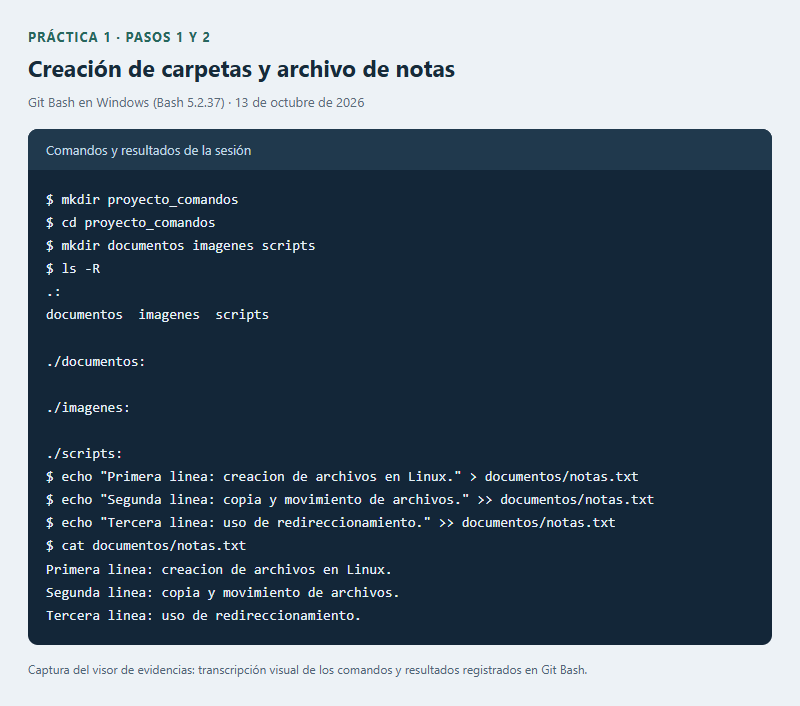
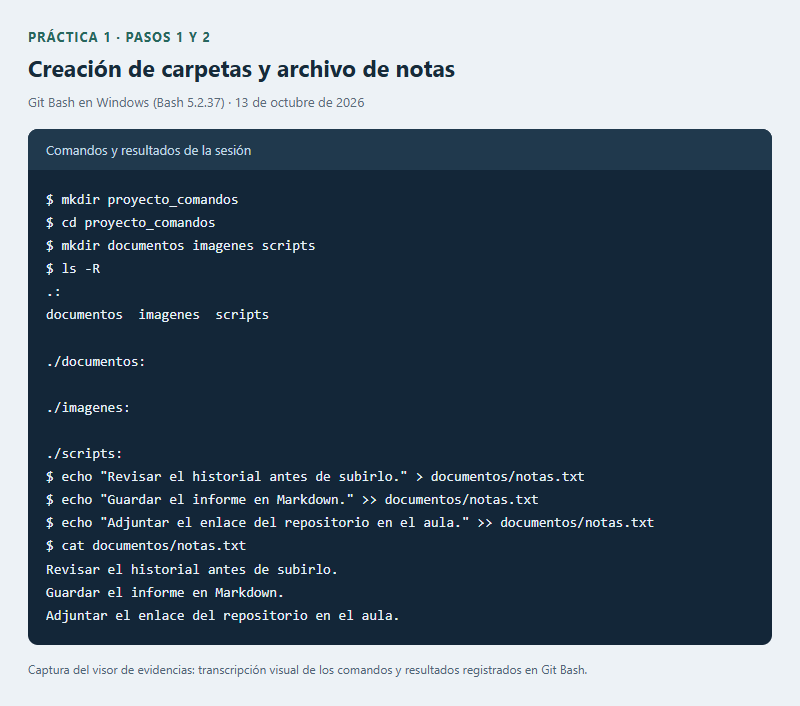
Usar notas de la entrega y simplificar las explicaciones

Changed region(s): [[0.125, 0.6544, 0.8125, 0.7479], [0.0625, 0.779, 0.5, 0.9037]]

diff --git a/informe.md b/informe.md
@@ -7,27 +7,25 @@
 
 ## 1. Título
 
-Creación, copia, movimiento, redirección y eliminación de archivos mediante comandos de Linux.
+Creación y manejo de archivos con comandos de Linux.
 
 ## 2. Tiempo de duración
 
-La ejecución de los pasos de creación y manipulación, junto con las primeras comprobaciones, registró **73 segundos (aproximadamente 1,2 minutos)** en la sesión de Git Bash. Este tiempo corresponde a la ejecución de los comandos; no incluye la elaboración del informe, la publicación en GitHub ni la grabación del audio.
+La ejecución final de los comandos y sus comprobaciones tomó **34 segundos**. Este registro no incluye el tiempo dedicado al informe ni a la grabación del audio.
 
 ## 3. Fundamentos
 
-Los comandos de esta práctica se plantean para una terminal interactiva de Git Bash. Una terminal permite escribir instrucciones para trabajar con archivos y directorios. La organización de las carpetas ayuda a separar documentos, imágenes y scripts, mientras que las rutas indican dónde actúa cada instrucción. La shell interpreta esas instrucciones, sus argumentos y los operadores que relacionan su entrada y salida. [Manual de Bash](https://www.gnu.org/software/bash/manual/bash.html).
+La práctica organiza el trabajo en una carpeta llamada `proyecto_comandos`. Dentro se crean `documentos`, `imagenes` y `scripts`. El comando `mkdir` permite crear estas carpetas y `cd proyecto_comandos` sirve para entrar en la principal. Desde allí, la ruta `documentos/notas.txt` indica que el archivo está dentro de `documentos`. Tener clara la ubicación ayuda a copiar o borrar el archivo correcto. [Bash](https://www.gnu.org/software/bash/manual/bash.html) y [GNU: mkdir](https://www.gnu.org/software/coreutils/manual/html_node/mkdir-invocation.html).
 
-El comando `pwd` muestra la ubicación actual y `cd` cambia el directorio de trabajo. Esto permite interpretar correctamente las rutas relativas. `mkdir` crea carpetas; por ejemplo, `mkdir proyecto_comandos` crea el directorio principal. Después de entrar con `cd proyecto_comandos`, la instrucción `mkdir documentos imagenes scripts` crea las tres subcarpetas dentro de él. [Manual de Bash](https://www.gnu.org/software/bash/manual/bash.html) y [GNU: mkdir](https://www.gnu.org/software/coreutils/manual/html_node/mkdir-invocation.html).
+Para escribir las notas se usa `echo`. La primera línea, “Revisar el historial antes de subirlo.”, se guarda con `>`. Las siguientes, “Guardar el informe en Markdown.” y “Adjuntar el enlace del repositorio en el aula.”, se añaden con `>>`. La diferencia es importante: en la configuración habitual, `>` reemplaza el contenido existente, mientras que `>>` conserva lo anterior y escribe al final. Ambos pueden crear el archivo si todavía no existe. [Bash](https://www.gnu.org/software/bash/manual/bash.html).
 
-El comando `echo` escribe texto en la salida estándar. Al agregar `>`, esa salida se dirige a un archivo: se crea si no existe y, normalmente, se reemplaza su contenido si ya existe. En cambio, `>>` añade texto al final. Por eso, para escribir tres líneas en `notas.txt`, se puede utilizar `>` en la primera y `>>` en las siguientes. [Manual de Bash](https://www.gnu.org/software/bash/manual/bash.html).
+Con `cp documentos/notas.txt scripts/backup_notas.txt` se obtiene una copia con otro nombre y se conserva el original. Luego, `mv scripts/backup_notas.txt imagenes/` traslada esa copia. Después del movimiento, el respaldo queda en `imagenes` y ya no está en `scripts`. El archivo `documentos/notas.txt` sigue en su lugar. [GNU Coreutils](https://www.gnu.org/software/coreutils/manual/coreutils.html).
 
-El comando `cp` copia un archivo y conserva el original. Así, `cp documentos/notas.txt scripts/backup_notas.txt` permite obtener una copia con otro nombre. Por su parte, `mv` cambia la ubicación o el nombre de un archivo; después de moverlo correctamente, deja de estar en su ubicación anterior. [Manual de GNU Coreutils](https://www.gnu.org/software/coreutils/manual/coreutils.html).
+El comando `cat documentos/notas.txt > documentos/resumen.txt` escribe las tres notas en `resumen.txt`. Después se añade “Grabar un audio de un minuto para la entrega.” mediante `echo` y `>>`. Así, el archivo debe tener cuatro líneas. Aunque se llame “resumen”, `cat` no reduce ni interpreta el texto; lo envía completo al destino indicado. [GNU: cat](https://www.gnu.org/software/coreutils/manual/html_node/cat-invocation.html).
 
-El comando `cat` envía el contenido de uno o varios archivos a la salida estándar. Con `cat documentos/notas.txt > documentos/resumen.txt`, ese contenido se escribe en otro archivo. El nombre “resumen” no significa que el comando resuma el texto: únicamente reproduce su contenido. [GNU: cat](https://www.gnu.org/software/coreutils/manual/html_node/cat-invocation.html).
+La eliminación se hace en dos pasos. Primero, `rm imagenes/backup_notas.txt` borra el respaldo. Luego, `rmdir imagenes` elimina la carpeta, siempre que esté vacía. El orden importa porque `rmdir` no elimina un directorio que todavía contiene archivos. [GNU Coreutils](https://www.gnu.org/software/coreutils/manual/coreutils.html) y [GNU: rmdir](https://www.gnu.org/s/coreutils/manual/html_node/rmdir-invocation.html).
 
-El comando `rm` elimina archivos, como la copia temporal solicitada. `rmdir` elimina directorios vacíos y devuelve un error si contienen elementos. Esta diferencia permite elegir el comando adecuado para cada parte de la práctica. [Manual de GNU Coreutils](https://www.gnu.org/software/coreutils/manual/coreutils.html) y [GNU: rmdir](https://www.gnu.org/s/coreutils/manual/html_node/rmdir-invocation.html).
-
-Finalmente, `history` muestra el historial disponible en la shell. En `history | tee tarea-s1-pedro_pozo.txt`, la tubería `|` conecta esa salida con la entrada de `tee`, que muestra los datos y los guarda. El historial registra comandos, pero no demuestra por sí solo que se ejecutaron correctamente; para comprobarlo hacen falta resultados y evidencias. [GNU: historial](https://www.gnu.org/s/bash/manual/html_node/Bash-History-Facilities.html) y [GNU: tee](https://www.gnu.org/s/coreutils/manual/html_node/tee-invocation.html).
+Finalmente, `history | tee ../tarea-s1-pedro_pozo.txt` permite revisar y guardar los comandos. La tubería `|` pasa el historial a `tee`, que lo muestra en pantalla y lo escribe en el archivo. `../` sitúa ese archivo un nivel por encima de la carpeta actual. El historial sirve como registro de los comandos, pero sus resultados se comprueban aparte. [GNU: historial](https://www.gnu.org/s/bash/manual/html_node/Bash-History-Facilities.html) y [GNU: tee](https://www.gnu.org/s/coreutils/manual/html_node/tee-invocation.html).
 
 ![Estructura inicial y recorrido de los archivos](evidencias/01-estructura.svg)
 
@@ -41,15 +39,15 @@ Finalmente, `history` muestra el historial disponible en la shell. En `history |
 
 - Abrir una terminal y escribir un comando con sus argumentos.
 - Reconocer la diferencia entre un archivo y un directorio.
-- Comprender que una ruta relativa depende del directorio actual.
-- Identificar el uso de las comillas para escribir texto con espacios.
+- Saber en qué carpeta se está trabajando y cómo escribir una ruta.
+- Usar comillas cuando el texto contiene espacios.
 - Utilizar un navegador y una cuenta de GitHub para entregar el repositorio.
 
 ## 5. Objetivos a alcanzar
 
 1. Crear la estructura `proyecto_comandos` con las carpetas `documentos`, `imagenes` y `scripts`.
 2. Crear un archivo de tres líneas, copiarlo, cambiar el nombre de la copia y moverla a otra carpeta.
-3. Aplicar redirecciones para conservar y ampliar el contenido de un archivo, eliminar elementos y exportar el historial mediante una tubería.
+3. Añadir texto sin borrar lo anterior, eliminar el respaldo y guardar el historial con una tubería.
 
 ## 6. Equipo necesario
 
@@ -60,7 +58,7 @@ Finalmente, `history` muestra el historial disponible en la shell. En `history |
 - Navegador, conexión a Internet y cuenta de GitHub.
 - Micrófono o teléfono para grabar el audio personal solicitado.
 
-Git Bash proporciona Bash y herramientas de estilo Unix en Windows. Fue el entorno empleado; no se utilizó Ubuntu WSL en esta ejecución.
+Para esta práctica se utilizó Git Bash, que permite ejecutar estos comandos en Windows.
 
 ## 7. Material de apoyo
 
@@ -72,9 +70,9 @@ Git Bash proporciona Bash y herramientas de estilo Unix en Windows. Fue el entor
 
 ## 8. Procedimiento
 
-Se empleó una carpeta nueva de trabajo y una sesión interactiva de Git Bash con historial independiente. Los comandos siguientes corresponden a la ejecución registrada. Se mantuvo el nombre **`imagenes` sin tilde** en todas las rutas, tal como aparece en la creación de la estructura del enunciado.
+La práctica se hizo en una carpeta nueva. Se usó `imagenes` sin tilde en todas las instrucciones para mantener el mismo nombre de carpeta.
 
-Las figuras 1 y 2 son diagramas explicativos. Las figuras 3 a 6 muestran una transcripción visual del registro real de ejecución, presentada en un visor. Todas las imágenes tienen 800 píxeles de ancho.
+Las dos primeras figuras explican las operaciones. Las figuras 3 a 6 muestran transcripciones visuales de los comandos y sus resultados. Todas tienen 800 píxeles de ancho.
 
 ### Paso 1. Crear la estructura de carpetas
 
@@ -85,18 +83,18 @@ mkdir documentos imagenes scripts
 ls -R
 ```
 
-Se comprobó la presencia de las tres subcarpetas dentro de `proyecto_comandos`. Desde este punto, los comandos de la práctica se ejecutaron dentro de esa carpeta.
+Con `ls -R` se comprobó que las tres subcarpetas estaban creadas. Los pasos siguientes se hicieron desde `proyecto_comandos`.
 
 ### Paso 2. Crear notas.txt y escribir tres líneas
 
 ```bash
-echo "Primera linea: creacion de archivos en Linux." > documentos/notas.txt
-echo "Segunda linea: copia y movimiento de archivos." >> documentos/notas.txt
-echo "Tercera linea: uso de redireccionamiento." >> documentos/notas.txt
+echo "Revisar el historial antes de subirlo." > documentos/notas.txt
+echo "Guardar el informe en Markdown." >> documentos/notas.txt
+echo "Adjuntar el enlace del repositorio en el aula." >> documentos/notas.txt
 cat documentos/notas.txt
 ```
 
-El primer comando creó el archivo. Los dos siguientes añadieron líneas sin reemplazar las anteriores. Se usó texto sin tildes dentro de los archivos para simplificar su lectura en la terminal.
+Las notas contienen tres recordatorios para la entrega. La primera línea creó el archivo con `>`; las otras dos se añadieron con `>>`. Luego se revisó el contenido con `cat`.
 
 ![Creación de carpetas y notas](evidencias/03-creacion.png)
 
@@ -111,7 +109,7 @@ mv scripts/backup_notas.txt imagenes/
 ls scripts imagenes
 ```
 
-`cp` creó una copia con el nombre `backup_notas.txt`, manteniendo el original en `documentos`. Después, `mv` trasladó la copia a `imagenes`. La comprobación mostró el respaldo en `imagenes` y la carpeta `scripts` vacía.
+El original quedó en `documentos` y su copia se guardó como `backup_notas.txt`. Después de moverla, `ls` mostró el respaldo dentro de `imagenes`; `scripts` quedó vacía.
 
 ![Copia y movimiento](evidencias/04-copia-movimiento.png)
 
@@ -122,12 +120,12 @@ ls scripts imagenes
 ```bash
 touch documentos/resumen.txt
 cat documentos/notas.txt > documentos/resumen.txt
-echo "Cuarta linea: contenido agregado sin sobrescribir." >> documentos/resumen.txt
+echo "Grabar un audio de un minuto para la entrega." >> documentos/resumen.txt
 cat documentos/resumen.txt
 wc -l documentos/notas.txt documentos/resumen.txt
 ```
 
-`touch` creó el archivo vacío y la redirección copió en él el contenido de `notas.txt`. La última línea se añadió con `>>`. Se verificaron **tres líneas en notas.txt y cuatro en resumen.txt**. El archivo llamado `resumen.txt` contiene una copia ampliada; no se realizó un resumen automático del texto.
+Se creó `resumen.txt` y se copiaron las tres notas mediante `cat` y `>`. Después se añadió el recordatorio de grabar el audio. La comprobación con `wc -l` dio **3 líneas en notas.txt y 4 en resumen.txt**.
 
 ![Redirección y número de líneas](evidencias/05-redireccion.png)
 
@@ -142,7 +140,7 @@ rmdir imagenes
 ls -R
 ```
 
-Primero se eliminó el archivo de respaldo. `ls -A imagenes` no mostró elementos, lo que permitió comprobar que la carpeta estaba vacía. Después, `rmdir` la eliminó. El archivo original y `resumen.txt` permanecieron en `documentos`.
+Después de borrar el respaldo, `ls -A imagenes` no mostró ningún archivo. Con la carpeta vacía se pudo usar `rmdir`. Las notas y el resumen se conservaron en `documentos`.
 
 ![Estado final de la práctica](evidencias/06-resultado-final.png)
 
@@ -150,23 +148,22 @@ Primero se eliminó el archivo de respaldo. `ls -A imagenes` no mostró elemento
 
 ### Paso 6. Guardar el historial utilizando una tubería
 
-Desde `proyecto_comandos`, la instrucción de entrega es:
+El historial se guardó desde `proyecto_comandos` con este comando:
 
 ```bash
 history | tee ../tarea-s1-pedro_pozo.txt
 ```
 
-`history` produce la lista de comandos de la sesión y la tubería `|` la entrega a `tee`. Este último muestra la lista en la terminal y la guarda en el archivo situado un nivel por encima del proyecto. El nombre del archivo debe contener el nombre y apellido del estudiante.
+La tubería pasa la salida de `history` a `tee`. Así, la lista aparece en la terminal y queda guardada en `tarea-s1-pedro_pozo.txt`. El archivo se coloca fuera de `proyecto_comandos`, junto al informe.
 
-El historial completo se exportó al archivo `tarea-s1-pedro_pozo.txt`. Incluye las comprobaciones y las exportaciones realizadas durante la práctica.
 
 ### Paso 7. Preparar el repositorio y el audio
 
-El repositorio incluye el informe Markdown, el historial, las evidencias y los archivos resultantes. El audio se entrega aparte en el aula virtual, conforme al enunciado: debe ser un **MP3 de 60 segundos** que explique con palabras del estudiante lo aprendido.
+El informe, el historial y los archivos quedaron en el [repositorio de la práctica](https://github.com/pozosaurio-stack/tarea-semana-1-comandos-linux). El audio de **60 segundos en MP3** se adjunta por separado en el aula virtual.
 
 ## 9. Resultados esperados
 
-Los resultados esperados y las comprobaciones de la ejecución fueron los siguientes:
+Estas fueron las comprobaciones al terminar:
 
 | Comprobación | Resultado observado |
 |---|---|
@@ -189,9 +186,9 @@ proyecto_comandos/
 └── scripts/
 ```
 
-**Nota sobre GitHub:** Git no versiona directorios vacíos. Después de terminar la práctica se añadió un archivo vacío `.gitkeep` en `scripts` únicamente para conservar esa carpeta en el repositorio. Este marcador no es parte de las operaciones de copia y movimiento.
+Git no guarda carpetas vacías. Por eso, después de la práctica se añadió `.gitkeep` en `scripts` para que aparezca en el repositorio.
 
-La ejecución permite distinguir tres efectos: copiar conserva el archivo original, mover cambia la ubicación de un archivo y redireccionar controla dónde se escribe la salida de un comando. También se comprobó que `>>` agrega contenido y que `rmdir` se utiliza para directorios vacíos.
+La comprobación más clara está en los dos archivos finales: las notas conservan los tres recordatorios y el resumen tiene uno más. La copia temporal ya no está. Esto permite revisar que cada comando produjo el cambio esperado sin perder el archivo original.
 
 ## 10. Bibliografía
 
